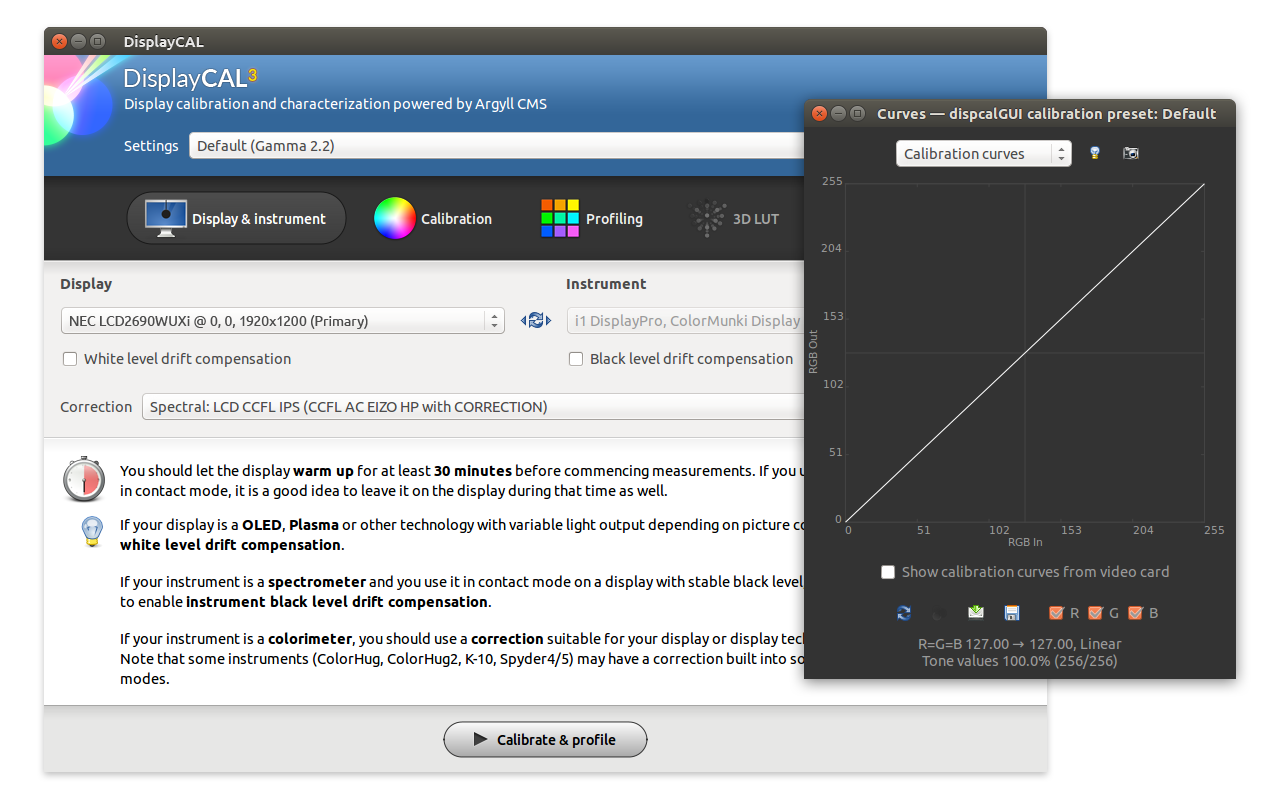
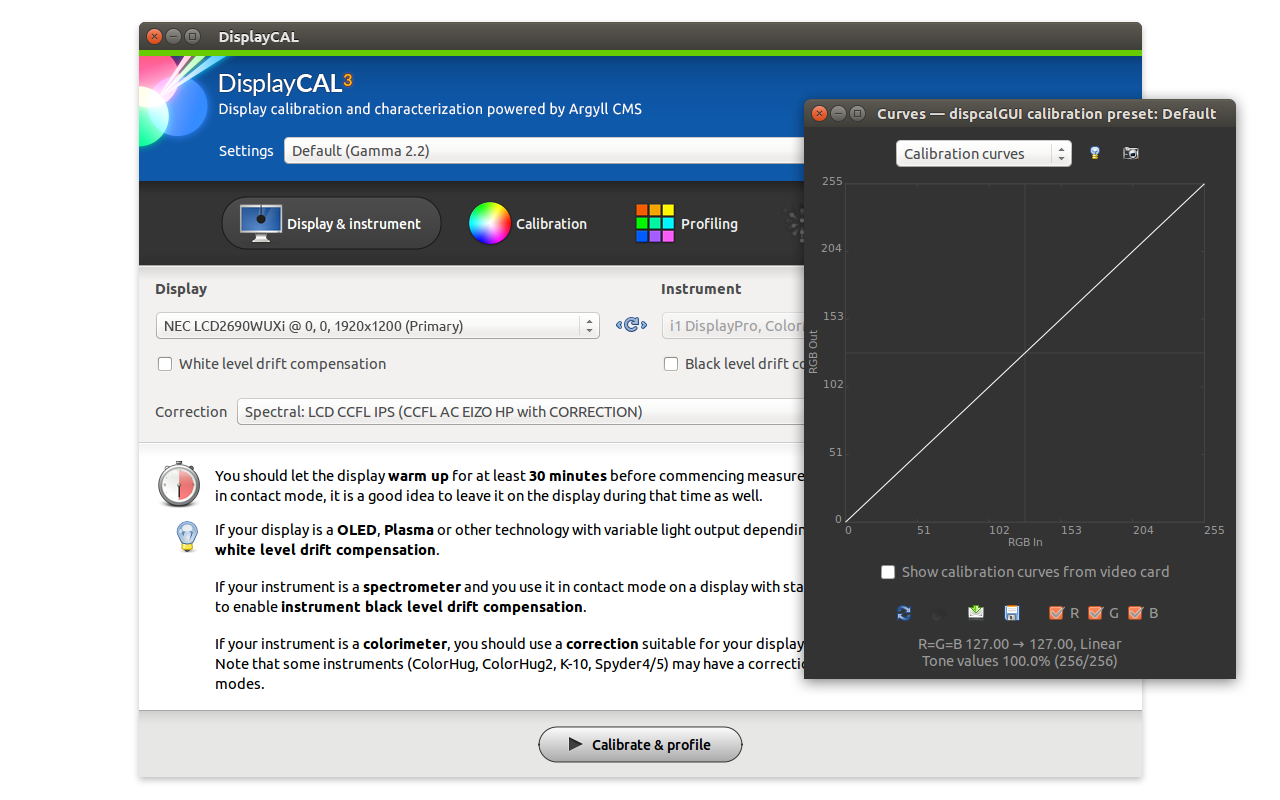
Update theme & screenshots
git-svn-id: https://svn.code.sf.net/p/dispcalgui/code/trunk@4221 6ae35eb0-b8ff-4ca7-919d-0ec1eff389cd

Changed region(s): [[0.0312, 0.0, 0.9062, 0.4688], [0.0312, 0.5625, 0.9062, 1.0], [0.0312, 0.5, 0.5312, 0.5312]]

diff --git a/DisplayCAL/DisplayCAL.py b/DisplayCAL/DisplayCAL.py
@@ -731,7 +731,7 @@ def get_header(parent, bitmap=None, label=None, size=(-1, 64), x=80, y=44,
 	header.label_y = y
 	header.scalebitmap = (False, ) * 2
 	header.textshadow = False
-	header.SetBackgroundColour("#003399")
+	header.SetBackgroundColour("#0e59a9")
 	header.SetForegroundColour("#FFFFFF")
 	header.SetMaxFontSize(11)
 	label = label or lang.getstr("header")
@@ -1511,7 +1511,7 @@ class MainFrame(ReportFrame, BaseFrame):
 		if scale > 1:
 			y, w, h = [int(math.floor(v * scale)) for v in (y, w, h)]
 		self.header_btm = BitmapBackgroundPanel(self.headerpanel, size=(w, -1))
-		self.header_btm.BackgroundColour = "#003399"
+		self.header_btm.BackgroundColour = "#0e59a9"
 		self.header_btm.scalebitmap = False, False
 		header_bmp = getbitmap("theme/header", False)
 		if header_bmp.Size[0] >= w and header_bmp.Size[1] >= h + y:
